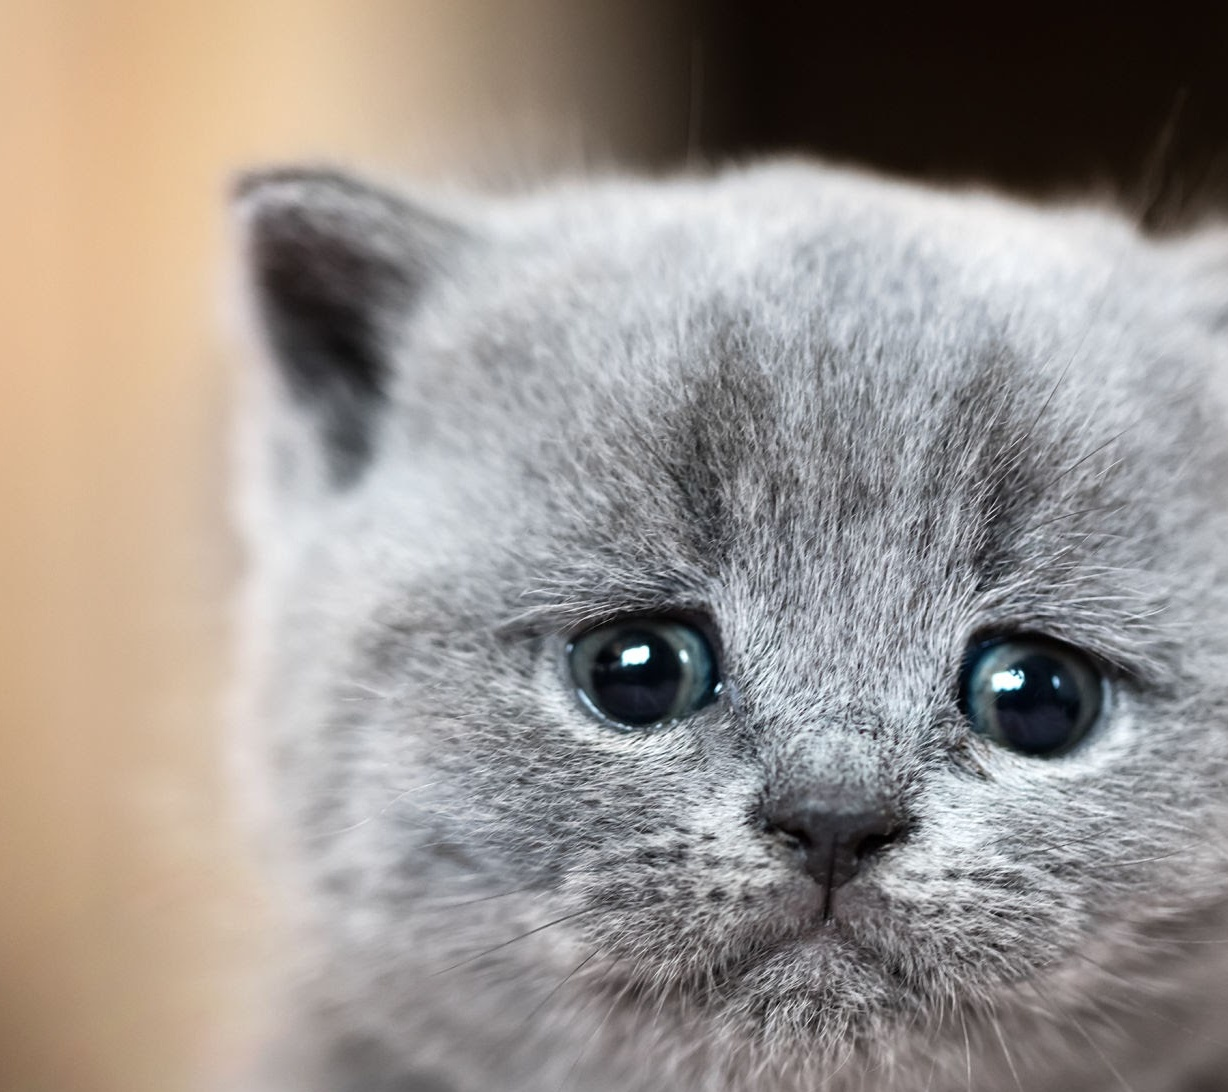
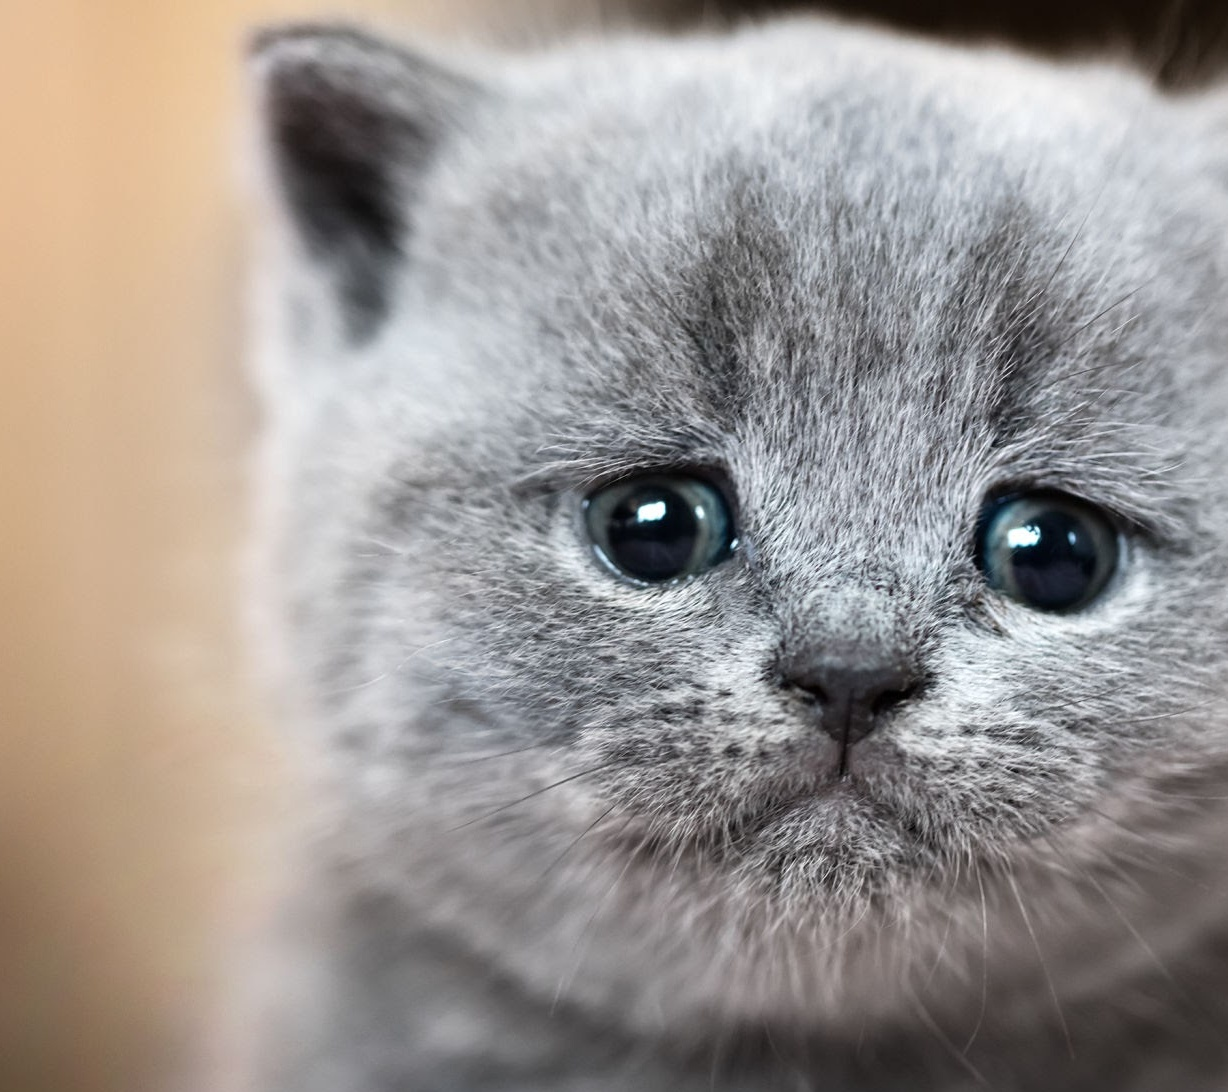
added pixel level transformations

diff --git a/data_aug_m1.py b/data_aug_m1.py
@@ -8,6 +8,9 @@ import os
 from tkinter import filedialog, Tk
 from image_augmentation import ImageAugmentation
 from ia_params_extract_utils import ParamsExtractUtils
+import random
+
+
 class DataAugmentation:
 
     def __init__(self,config_file_path):
@@ -25,8 +28,8 @@ class DataAugmentation:
         self.root.attributes("-topmost", True) # place the file explorer as the top most window
         # root.lift()
         self.root.withdraw() #withdraw the vindow since it is not necessary
-        self.load_config_file()
-        self.choose_input_dir()
+        # self.load_config_file()
+        # self.choose_input_dir()
 
     def load_config_file(self):
         self.config_file_path = filedialog.askopenfilename(parent=self.root)    
@@ -60,13 +63,12 @@ class DataAugmentation:
 
     def augment_images(self):
         img_file_names = os.listdir(self.input_images_dir_path)
-        print(self.aug_config_dict)
         for current_img_file_name in img_file_names: #iterate through input images
             current_img_path = os.path.join(self.input_images_dir_path,current_img_file_name)
             current_img = cv2.imread(current_img_path)
             current_img = cv2.cvtColor(current_img, cv2.COLOR_BGR2RGB)
             for _,aug_method_dict in self.aug_config_dict.items(): #iterate trough all the functions of the config file
-                print(aug_method_dict)
+                print(current_img_file_name,'---',aug_method_dict)
                 for method_name,method_prams_dict in aug_method_dict.items(): #iterate through all the methods of each function
                     name_content_list = [current_img_file_name.split('.')[0], method_name, self.img_count]
                     if(method_name == 'rotation'):
@@ -107,7 +109,8 @@ class DataAugmentation:
         ia = ImageAugmentation()
 
         # res = ia.rotate_image(image,angle=-30.75)
-        res = ia.shear_image(image,-0.2)
+        # res = ia.shear_image(image,-0.2)
+        res = ia.random_bright_image(image,(-20,70))
         # print(res)
         # ia.tint_image(image)
         # res = ia.shift_image(image,axis=1,shift_range=0.2)
@@ -118,8 +121,95 @@ class DataAugmentation:
         plt.imshow(res)
         plt.show()
 
-da = DataAugmentation(r'.\config_file.json')
-da.augment_images()
+# da = DataAugmentation(r'.\config_file.json')
+# da.augment_images()
 # da.apply_augmentations()
 # da.load_config_file()
 # da.choose_input_dir()
+
+# def increase_brightness(img, value=50):
+#     hsv = cv2.cvtColor(img, cv2.COLOR_BGR2HSV)
+#     h, s, v = cv2.split(hsv)
+#     rand_val = random.randint(-100,40)
+#     print(rand_val)
+#     v = cv2.add(v,rand_val)
+#     v[v > 255] = 255
+#     v[v < 0] = 0
+#     final_hsv = cv2.merge((h, s, v))
+
+#     img = cv2.cvtColor(final_hsv, cv2.COLOR_HSV2BGR)
+#     return img
+
+def gaussian_blur(image,kernel=(3,3)):
+    # a gaussian kernel needs to be odd size
+    image = cv2.GaussianBlur(image,kernel,cv2.BORDER_DEFAULT)
+    return image
+
+def contrast_image(image):
+    alpha = 0.3 # Contrast control (1.0-3.0)
+    beta = 0 # Brightness control (0-100)
+#     alpha 1  beta 0      --> no change  
+# 0 < alpha < 1        --> lower contrast  
+# alpha > 1            --> higher contrast  
+# -127 < beta < +127   --> good range for brightness values
+    adjusted = cv2.convertScaleAbs(image, alpha=alpha, beta=beta)
+    return adjusted
+
+def clahe(image):
+    image_bw = cv2.cvtColor(image, cv2.COLOR_BGR2GRAY) 
+    clahe = cv2.createCLAHE(clipLimit = 40) 
+    final_img = clahe.apply(image_bw) +30
+    _, ordinary_img = cv2.threshold(image_bw, 155, 255, cv2.THRESH_BINARY)  
+    return final_img
+
+def rgb_shift(image):
+
+    r, g, b = cv2.split(image)
+
+    start_range,end_range = (-10,100)
+    rand_val = random.randint(start_range,end_range)
+
+    r = cv2.add(r,rand_val)
+    r[r > 255] = 255
+    r[r < 0] = 0
+
+    g = cv2.add(g,rand_val)
+    g[g > 255] = 255
+    g[g < 0] = 0
+
+    b = cv2.add(b,rand_val)
+    b[b > 255] = 255
+    b[b < 0] = 0
+
+    final_hsv = cv2.merge((r, g, b))
+
+    # image = cv2.cvtColor(final_hsv, cv)
+    return final_hsv
+
+def adjust_gamma(image, gamma=1.0):
+	# build a lookup table mapping the pixel values [0, 255] to
+	# their adjusted gamma values
+	invGamma = 1.0 / gamma
+	table = np.array([((i / 255.0) ** invGamma) * 255
+		for i in np.arange(0, 256)]).astype("uint8")
+	# apply gamma correction using the lookup table
+	return cv2.LUT(image, table)
+
+cwd = os.getcwd() #to get the current directory as a string
+img_path = os.path.join(cwd,'horse.jpg')
+image = cv2.imread(img_path,cv2.IMREAD_UNCHANGED)
+image = cv2.cvtColor(image,cv2.COLOR_BGR2RGB)
+# res = gaussian_blur(image,(9,9))
+# res = contrast_image(image)
+res = rgb_shift(image)
+# print(res)
+# ia.tint_image(image)
+# res = ia.shift_image(image,axis=1,shift_range=0.2)
+# res= ia.flip_image(image,10.23)
+# res =self.cv2_clipped_zoom(image,1.3)
+# print(res)
+# res = ia.random_crop_image(image,int(image.shape[0]*0.59),int(image.shape[1]*0.59))
+plt.imshow(image)
+plt.figure()
+plt.imshow(res)
+plt.show()

diff --git a/image_augmentation.py b/image_augmentation.py
@@ -1,5 +1,6 @@
 import numpy as np
 from cv2 import cv2
+import random
 from skimage import transform as sk_transform
 
 class ImageAugmentation:
@@ -28,6 +29,38 @@ class ImageAugmentation:
         # size of the output image image.shape[1::-1]
         result = cv2.warpAffine(image, rot_mat, image.shape[1::-1], flags=cv2.INTER_LINEAR)
         return result
+
+    def random_bright_image(self,image,brightness_range):
+        """
+            Randomly brighten the given image by the input angle in the counter-clockwise direction
+            The intent is to allow a model to generalize across images trained on different lighting levels.
+            Parameters
+            ----------
+                image : ndim np.array
+                    image to be brightened
+                brightness_range : tuple of ints
+                    specifies the range from within the brightness value (in pixels) 
+                    relative to the current imageshould be randomly chosen
+            Returns
+            -------
+                brightened image as np.array
+
+        """
+        hsv = cv2.cvtColor(image, cv2.COLOR_RGB2HSV)
+        h, s, v = cv2.split(hsv)
+
+        start_range,end_range = brightness_range
+        rand_val = random.randint(start_range,end_range)
+   
+        v = cv2.add(v,rand_val)
+        v[v > 255] = 255
+        v[v < 0] = 0
+        final_hsv = cv2.merge((h, s, v))
+
+        image = cv2.cvtColor(final_hsv, cv2.COLOR_HSV2RGB)
+        return np.copy(image)
+    
+
 
     def flip_image(self, image, flip_code):
         """

diff --git a/camera.py b/camera.py
@@ -1,0 +1,26 @@
+# import the opencv library 
+from cv2 import cv2 
+
+
+# define a video capture object 
+vid = cv2.VideoCapture(0) 
+
+while(True): 
+	
+	# Capture the video frame 
+	# by frame 
+	ret, frame = vid.read() 
+
+	# Display the resulting frame 
+	cv2.imshow('frame', frame) 
+	
+	# the 'q' button is set as the 
+	# quitting button you may use any 
+	# desired button of your choice 
+	if cv2.waitKey(1) & 0xFF == ord('q'): 
+		break
+
+# After the loop release the cap object 
+vid.release() 
+# Destroy all the windows 
+cv2.destroyAllWindows() 
